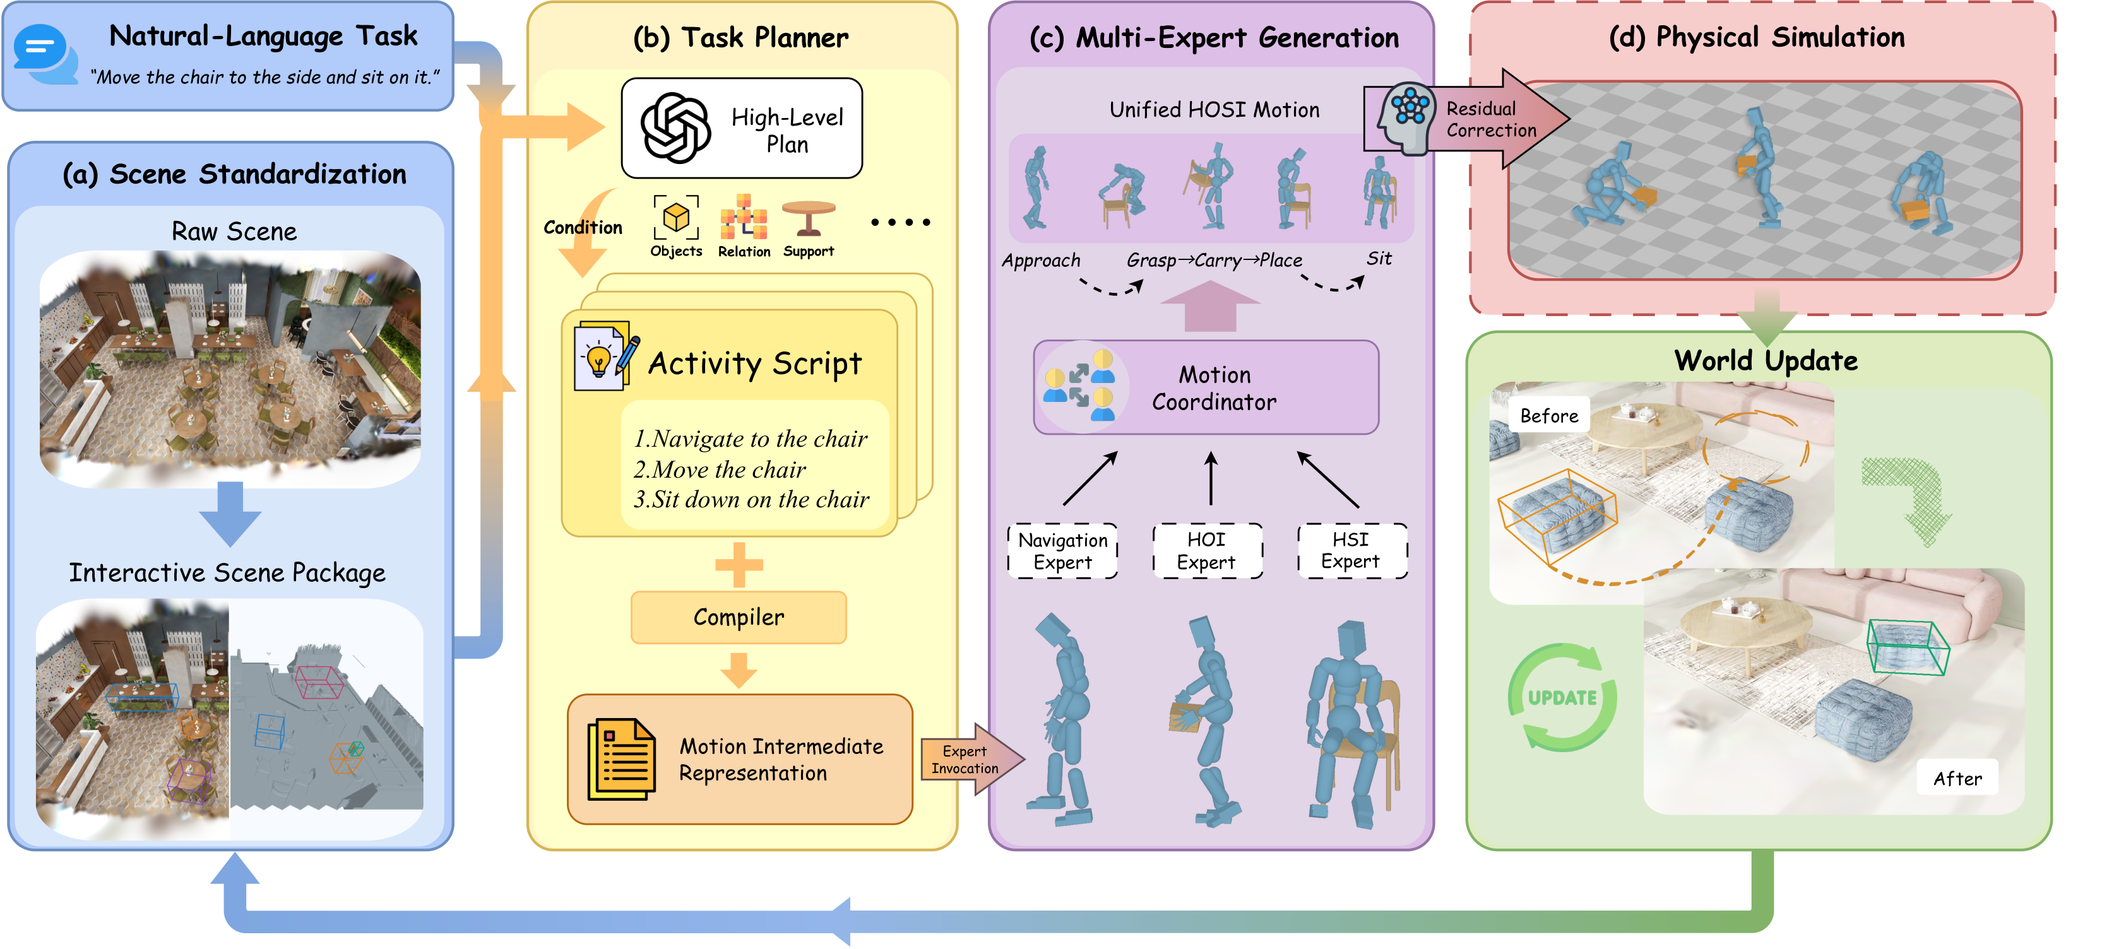
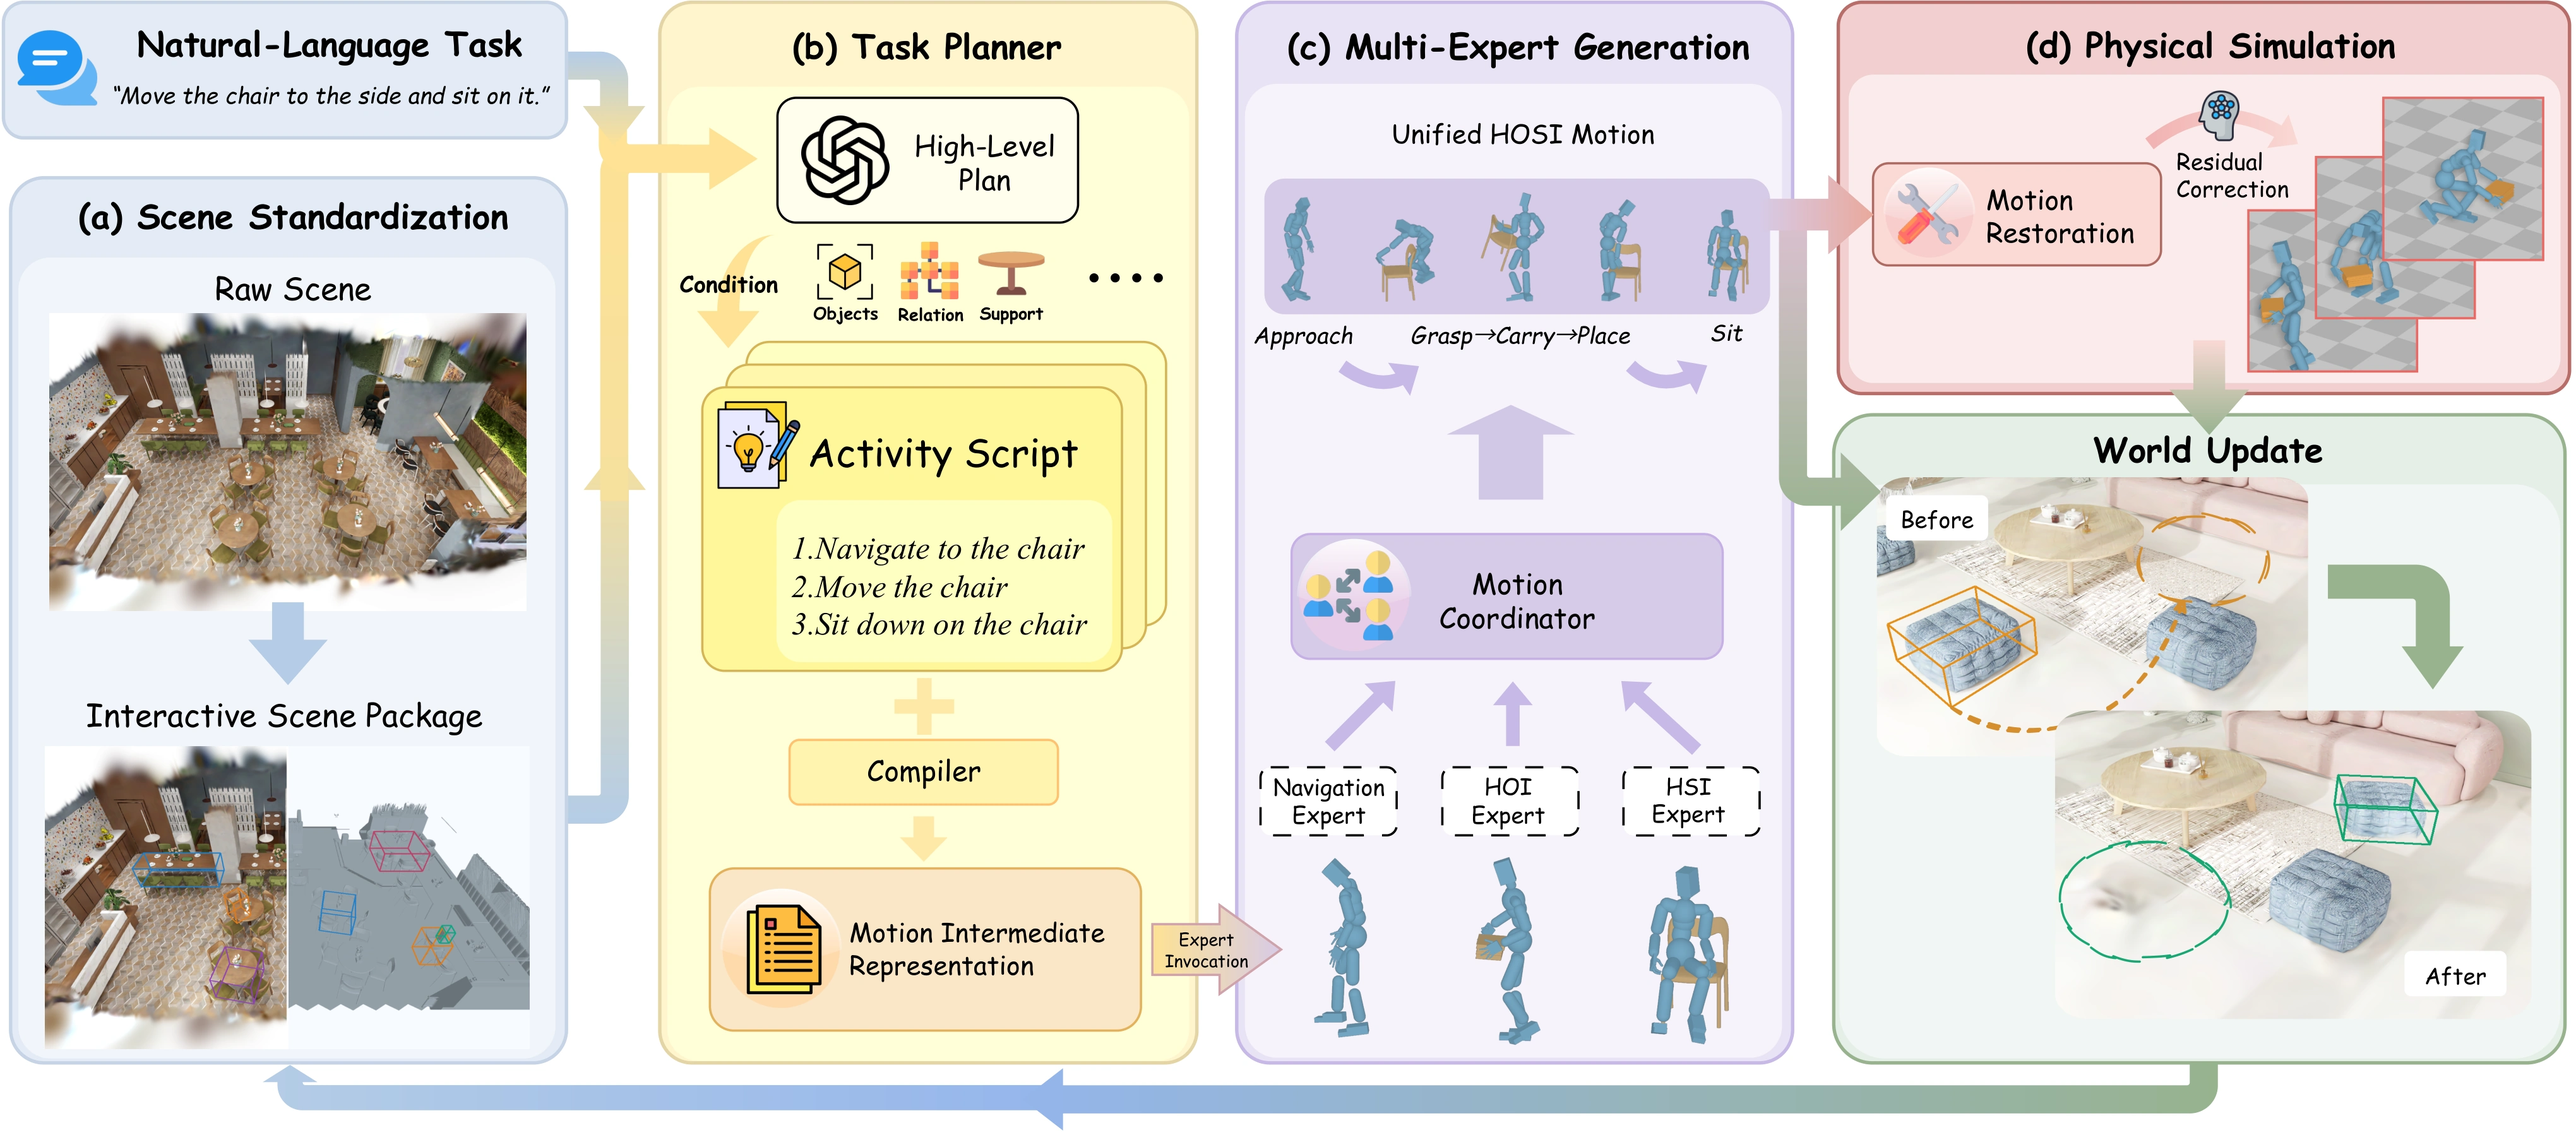
Add GPT-6-Astra comparisons and refresh the pipeline diagram

diff --git a/index.html b/index.html
@@ -8,7 +8,7 @@
   <meta name="referrer" content="no-referrer">
   <title>World2HOSI: A Multi-Expert Harness for Long-Horizon Human-Object-Scene Interaction Generation</title>
   <link rel="icon" href="favicon.svg" type="image/svg+xml">
-  <link rel="stylesheet" href="style.css?v=36">
+  <link rel="stylesheet" href="style.css?v=37">
   <link rel="stylesheet" href="hero.css?v=3">
   <script type="importmap">{"imports":{"three":"./vendor/three.module.js","three/addons/postprocessing/Pass.js":"./vendor/Pass.js","@sparkjsdev/spark":"./vendor/spark.module.js"}}</script>
 </head>
@@ -97,8 +97,8 @@
     <section class="method-overview" aria-labelledby="method-title">
       <div class="method-heading"><h2 id="method-title">Pipeline</h2></div>
       <figure class="pipeline-figure">
-        <a class="pipeline-open" href="assets/pipeline.webp" target="_blank" rel="noopener" aria-label="Enlarge the World2HOSI framework diagram">
-          <img src="assets/pipeline.webp" width="3330" height="1504" loading="lazy" decoding="async" alt="World2HOSI pipeline: scene standardization builds an Interactive Scene Package; the task planner compiles actions; navigation, HOI and HSI experts generate unified motion; residual correction and physical simulation refine execution. World updates feed back into planning.">
+        <a class="pipeline-open" href="assets/pipeline.webp?v=2" target="_blank" rel="noopener" aria-label="Enlarge the World2HOSI framework diagram">
+          <img src="assets/pipeline.webp?v=2" width="4080" height="1798" loading="lazy" decoding="async" alt="World2HOSI pipeline: scene standardization builds an Interactive Scene Package; the task planner compiles actions; navigation, HOI and HSI experts generate unified motion; residual correction and physical simulation refine execution. World updates feed back into planning.">
           <span class="pipeline-enlarge" aria-hidden="true"><svg viewBox="0 0 24 24"><path d="M8 3H3v5m13-5h5v5M3 16v5h5m13-5v5h-5"/></svg>Explore diagram</span>
         </a>
       </figure>
@@ -161,8 +161,12 @@
     <section class="comparisons" aria-labelledby="comparisons-title">
       <h2 id="comparisons-title">Comparison with baselines</h2>
       <figure class="comparison-row" aria-describedby="compare-chair-task">
-        <div class="comparison-scroll" tabindex="0" aria-label="Move the chair, put it down, and sit on it. Methods from left to right: InfBaGel, HOSIG, World2HOSI.">
+        <div class="comparison-scroll" tabindex="0" aria-label="Move the chair, put it down, and sit on it. Methods from left to right: GPT-6-Astra, InfBaGel, HOSIG, World2HOSI.">
           <div class="comparison-strip">
+            <div class="comparison-method">
+              <div class="comparison-visual"><picture><source media="(prefers-reduced-motion: reduce)" srcset="assets/comparisons/chair-gpt6astra-poster.webp"><img src="assets/comparisons/chair-gpt6astra.webp" width="640" height="462" loading="lazy" decoding="async" draggable="false" alt="GPT-6-Astra independently looping chair task comparison."></picture></div>
+              <div class="comparison-label">GPT-6-Astra</div>
+            </div>
             <div class="comparison-method">
               <div class="comparison-visual"><picture><source media="(prefers-reduced-motion: reduce)" srcset="assets/comparisons/chair-infbagel-poster.webp"><img src="assets/comparisons/chair-infbagel.webp" width="640" height="462" loading="lazy" decoding="async" draggable="false" alt="InfBaGel independently looping chair task comparison."></picture></div>
               <div class="comparison-label">InfBaGel</div>
@@ -180,8 +184,12 @@
         <figcaption id="compare-chair-task">Move the chair, put it down, and sit on it.</figcaption>
       </figure>
       <figure class="comparison-row" aria-describedby="compare-box-task">
-        <div class="comparison-scroll" tabindex="0" aria-label="Pick up the box, carry it across the café, and put it down. Methods from left to right: InfBaGel, HOSIG, World2HOSI.">
+        <div class="comparison-scroll" tabindex="0" aria-label="Pick up the box, carry it across the café, and put it down. Methods from left to right: GPT-6-Astra, InfBaGel, HOSIG, World2HOSI.">
           <div class="comparison-strip">
+            <div class="comparison-method">
+              <div class="comparison-visual"><picture><source media="(prefers-reduced-motion: reduce)" srcset="assets/comparisons/box-gpt6astra-poster.webp"><img src="assets/comparisons/box-gpt6astra.webp" width="640" height="244" loading="lazy" decoding="async" draggable="false" alt="GPT-6-Astra independently looping box task comparison."></picture></div>
+              <div class="comparison-label">GPT-6-Astra</div>
+            </div>
             <div class="comparison-method">
               <div class="comparison-visual"><picture><source media="(prefers-reduced-motion: reduce)" srcset="assets/comparisons/box-infbagel-poster.webp"><img src="assets/comparisons/box-infbagel.webp" width="640" height="244" loading="lazy" decoding="async" draggable="false" alt="InfBaGel independently looping box task comparison."></picture></div>
               <div class="comparison-label">InfBaGel</div>
@@ -199,8 +207,12 @@
         <figcaption id="compare-box-task">Pick up the box, carry it across the café, and put it down.</figcaption>
       </figure>
       <figure class="comparison-row" aria-describedby="compare-bin-task">
-        <div class="comparison-scroll" tabindex="0" aria-label="Pick up the trash bin, carry it around the tables, and put it down. Methods from left to right: InfBaGel, HOSIG, World2HOSI.">
+        <div class="comparison-scroll" tabindex="0" aria-label="Pick up the trash bin, carry it around the tables, and put it down. Methods from left to right: GPT-6-Astra, InfBaGel, HOSIG, World2HOSI.">
           <div class="comparison-strip">
+            <div class="comparison-method">
+              <div class="comparison-visual"><picture><source media="(prefers-reduced-motion: reduce)" srcset="assets/comparisons/bin-gpt6astra-poster.webp"><img src="assets/comparisons/bin-gpt6astra.webp" width="640" height="500" loading="lazy" decoding="async" draggable="false" alt="GPT-6-Astra independently looping bin task comparison."></picture></div>
+              <div class="comparison-label">GPT-6-Astra</div>
+            </div>
             <div class="comparison-method">
               <div class="comparison-visual"><picture><source media="(prefers-reduced-motion: reduce)" srcset="assets/comparisons/bin-infbagel-poster.webp"><img src="assets/comparisons/bin-infbagel.webp" width="640" height="500" loading="lazy" decoding="async" draggable="false" alt="InfBaGel independently looping bin task comparison."></picture></div>
               <div class="comparison-label">InfBaGel</div>
@@ -222,9 +234,9 @@
   <footer class="site-footer"><p tabindex="0"><strong>World2HOSI:</strong> A Multi-Expert Harness for Long-Horizon Human-Object-Scene Interaction Generation</p></footer>
   <dialog class="pipeline-dialog" aria-labelledby="pipeline-dialog-title">
     <div class="pipeline-toolbar"><h2 id="pipeline-dialog-title">Pipeline</h2><div><button id="pipeline-zoom" aria-pressed="false">Zoom in</button><button id="pipeline-close" aria-label="Close diagram" autofocus><svg viewBox="0 0 24 24"><path d="m6 6 12 12M18 6 6 18"/></svg></button></div></div>
-    <div class="pipeline-scroll" tabindex="0" aria-label="Pipeline diagram. Scroll to zoom, drag to pan. Use plus or minus to zoom, arrow keys to pan, and zero to reset."><img src="assets/pipeline.webp" width="3330" height="1504" loading="lazy" draggable="false" alt="Enlarged World2HOSI framework diagram. Scene standardization, task planning, multi-expert generation and physical simulation are connected through persistent world updates."></div>
+    <div class="pipeline-scroll" tabindex="0" aria-label="Pipeline diagram. Scroll to zoom, drag to pan. Use plus or minus to zoom, arrow keys to pan, and zero to reset."><img src="assets/pipeline.webp?v=2" width="4080" height="1798" loading="lazy" draggable="false" alt="Enlarged World2HOSI framework diagram. Scene standardization, task planning, multi-expert generation and physical simulation are connected through persistent world updates."></div>
   </dialog>
-  <script type="module" src="ui.js?v=13"></script>
+  <script type="module" src="ui.js?v=14"></script>
   <script type="module" src="glass.js?v=2"></script>
   <script type="module" src="viewer.js?v=19"></script>
   <script type="module" src="videos.js?v=5"></script>

diff --git a/style.css b/style.css
@@ -50,7 +50,7 @@ h1 { margin: 0; font-optical-sizing: auto; }
 .comparison-row { margin: 0 0 48px; padding: 0; border: 0; border-radius: 0; background: transparent; box-shadow: none; }
 .comparison-scroll { overflow-x: auto; overscroll-behavior-x: contain; scrollbar-width: thin; scrollbar-color: #bbc5d2 transparent; }
 .comparison-scroll:focus-visible { outline: 2px solid #0071e3a0; outline-offset: -2px; border-radius: 12px; }
-.comparison-strip { display: grid; grid-template-columns: repeat(3, minmax(0, 1fr)); gap: 16px; }
+.comparison-strip { display: grid; grid-template-columns: repeat(4, minmax(0, 1fr)); gap: 16px; }
 .comparison-method { min-width: 0; }
 .comparison-label { padding: 12px 0 0; text-align: center; font-size: .9375rem; font-weight: 550; color: #495360; }
 .comparison-label small { font-size: inherit; font-weight: 400; color: #727b87; }
@@ -61,7 +61,7 @@ h1 { margin: 0; font-optical-sizing: auto; }
   .comparisons { margin-top: 56px; }
   .comparisons > h2 { margin: 0 4px 20px; font-size: 1.875rem; }
   .comparison-row { margin-bottom: 36px; }
-  .comparison-strip { min-width: 840px; }
+  .comparison-strip { min-width: 1120px; }
   .comparison-row figcaption { padding: 12px 0 0; text-align: center; }
 }
 .video-showcase { margin-top: 88px; }

diff --git a/ui.js b/ui.js
@@ -325,8 +325,9 @@ function drawFigure() {
 function fitFigure() {
   const w = pipelineScroll.clientWidth, h = pipelineScroll.clientHeight;
   if (!w || !h) return;
-  figureWidth = Math.min(w - 24, (h - 24) * 3330 / 1504);
-  figureHeight = figureWidth * 1504 / 3330;
+  const aspect = Number(pipelineImage.getAttribute("width")) / Number(pipelineImage.getAttribute("height"));
+  figureWidth = Math.min(w - 24, (h - 24) * aspect);
+  figureHeight = figureWidth / aspect;
   pipelineImage.style.width = `${figureWidth}px`;
   figureScale = 1; figureX = 0; figureY = 0;
   drawFigure();
